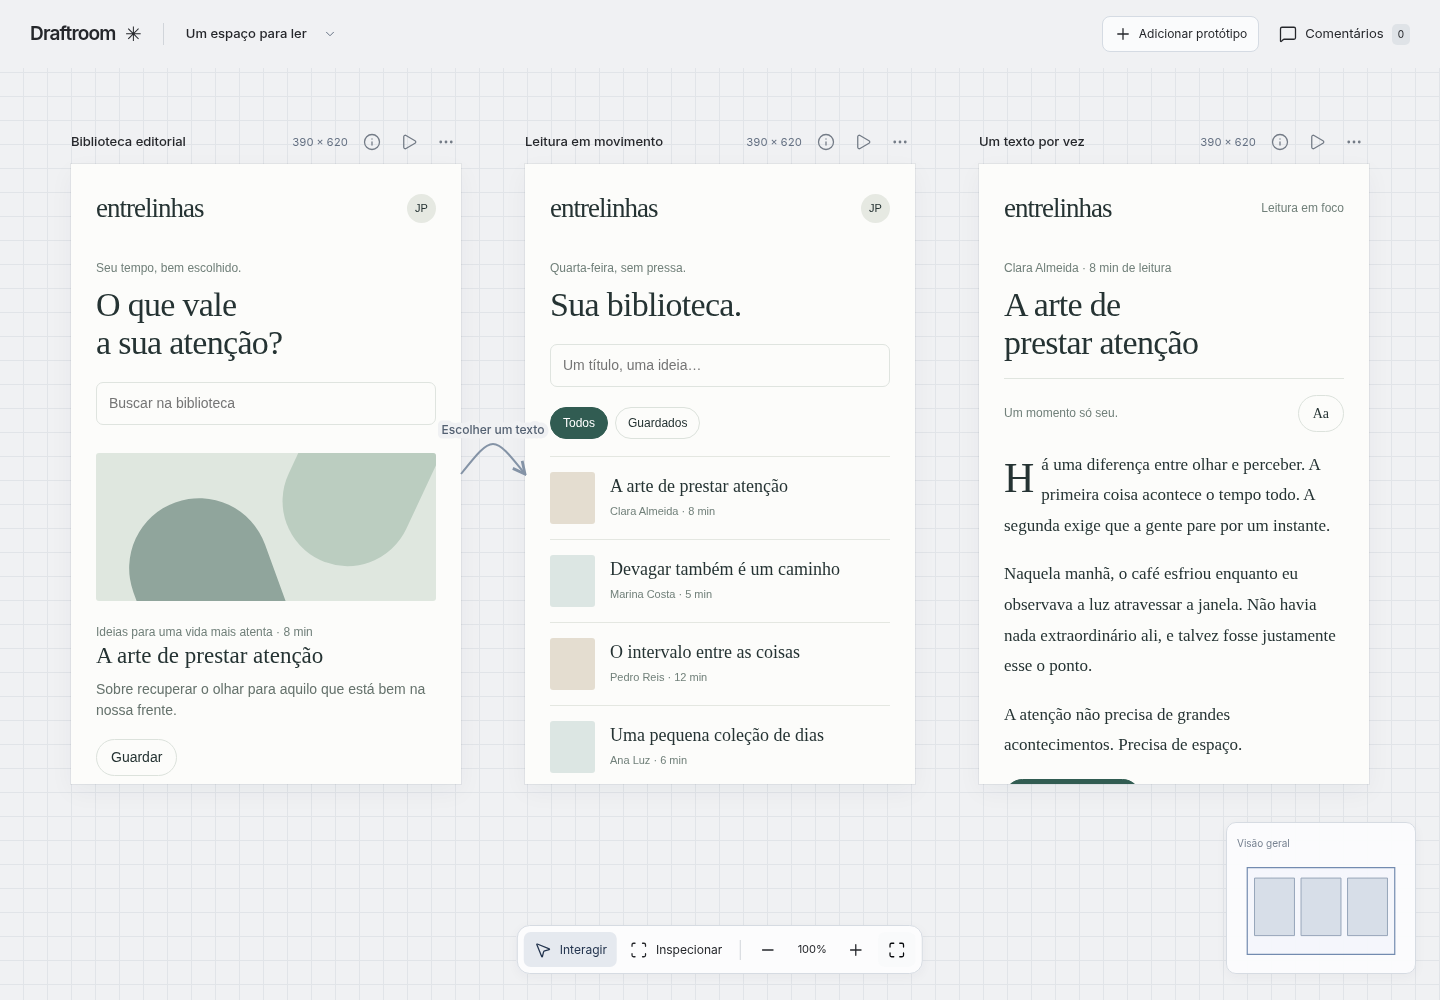
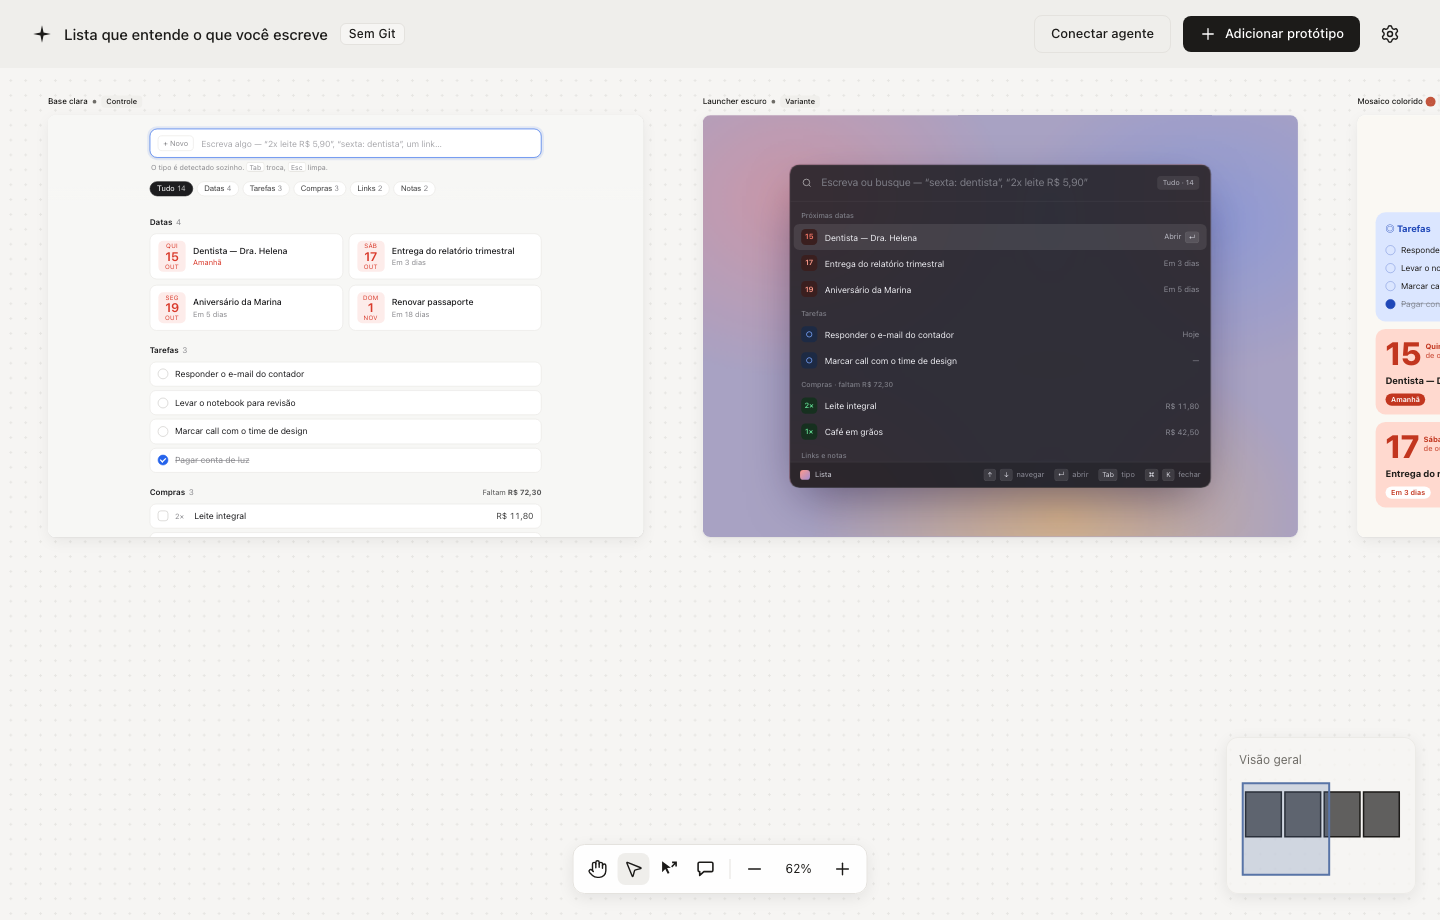
Fecha a 1.0 com as capturas da lista e o changelog da primeira versão.

diff --git a/CHANGELOG.md b/CHANGELOG.md
@@ -4,13 +4,15 @@ All notable changes to this project will be documented in this file.
 
 Format based on [Keep a Changelog](https://keepachangelog.com/).
 
-## [Unreleased]
+## [1.0.0] - 2026-10-27
+
+First published version. The canvas, the lista example, Inspect, pin comments, the agent contract and Git history are one release.
 
 ### Changed
 
-- The canvas toolbar is icons only: pan, select, inspect, comment, and zoom. The top bar keeps the mark, the project name, **Adicionar protótipo**, and **Conectar agente** only while no agent is connected. Comments open in a popover on the pin; the side panel only lists them. The role chip is a plain label. Compare, the info dialog, the research card, and the Status control are gone. Zoom changes the canvas, not the bars around it. Documents from `research.md` on the canvas are a follow-up.
-- Canvas frames use the frame shadow and a 12px radius, with 96px between frames. The frame name stays visible; size and frame actions appear when the frame is selected or focused. Flow filters live in the side panel. The top bar keeps the project name and **Adicionar protótipo**.
-- Frame headers show the name, a 6px state dot, and the role chip. Status words are the dot tooltip; the terracotta dot opens the agent question in the side panel. Small labels above titles and helper lines are removed. Compare shows the hypothesis and the criterion once.
+- The canvas toolbar is icons only: pan, select, inspect, comment, and zoom. The top bar keeps the mark, the project name, **Adicionar protótipo**, and **Conectar agente** only while no agent is connected. Comments open in a popover on the pin; the side panel only lists them. The role chip is a plain label, **Controle** or **Variante**, with no separate compare view. Zoom changes the canvas, not the bars around it. Documents from `research.md` on the canvas are a follow-up.
+- Canvas frames use the frame shadow and a 12px radius, with 96px between frames. The frame name stays visible; size and frame actions appear when the frame is selected or focused. The included study is `examples/lista`.
+- Frame headers show the name, a 6px state dot, and the role chip. Status words are the dot tooltip; the terracotta dot opens the agent question in the side panel. Small labels above titles and helper lines are removed.
 - Every state dot is a keyboard-focusable button with an accessible name. **Precisa de você** is an 8px dot with a 2px ring; Enter or Space opens the question.
 - **Breaking:** flow connections are stored in `experiment.json` (`edges`) instead of `.draft/layout.json`, so they are shared through Git. Existing connections are migrated on open. `POST /api/edges` replaces the layout field.
 
@@ -34,7 +36,8 @@ Format based on [Keep a Changelog](https://keepachangelog.com/).
 - Navigable study: `data-draft-goto="<frameId>"` inside a prototype jumps to that frame while presenting (selects and centers it on the canvas); arrow keys follow `edges` with a back history; the presentation bar lists the next steps. Unknown targets show a notice.
 - `draft export` keeps comments (read-only) and edges; `--no-feedback` leaves comments out.
 - Manifest `schemaVersion: 2`: frame `state`, `role` (control/variant), `group`, `tests`, `signal`; study `decision` (hypothesis, criteria); flow `edges`. Invalid or duplicate edges and multiple controls per group show a diagnostic instead of breaking the viewer.
-- Frame badges for state and role, decision and frame metadata in the info panel, and **Comparar** (control vs. variant side by side with the criteria).
+- Frame state dot and role chip. The study `decision` stays in the manifest and in `draft context`. There is no side-by-side compare view.
+- `ask_user` and `submit_summary` on `draft mcp`. Questions and assumptions are answered from the frame's state dot. In a Git repository, Inspect saves and claim releases commit `draft(<frameId>): …`, and the frame menu can restore an earlier commit of `frames/<id>/`.
 - `draft create --flow` scaffolds empty, loading, success and error states with edges.
 - `draft context` includes `schemaVersion`, `decision`, `edges` and frame metadata.
 - `draft context <folder>`: manifest, READMEs, frame files, open comments, active claims and emission rules in one JSON for agents.

diff --git a/README.md b/README.md
@@ -38,7 +38,7 @@ Opens the included lista study (`examples/lista`). Copy that folder when you sta
 - **History** — in a Git repository, the frame menu lists commits that touch `frames/<id>/`, shows the diff, and can restore that version as a new commit `draft(<id>): restaurar <sha>`. Without Git, the top bar shows **Sem Git** and history says it is unavailable; the canvas keeps working.
 - **Código** — switches that frame to a read-only view of its HTML. **Prévia** returns to the live iframe.
 - **Conectar agente** — copies a stdio command already pointed at this workspace folder. The button sits in the top bar only while no agent is connected; after that, the same dialog lives under **Configurações**. Read-only export bundles omit that absolute path.
-- **Comment** — pin a point or drag a region next to the pixels.
+- **Comment** — drag a region on the prototype. The note stays on a pin and opens in a popover; the side panel lists the thread.
 - **Present the flow** — in presentation mode, arrow keys follow `edges` (← goes back), the bar lists the next steps, and any element with `data-draft-goto="<frameId>"` inside a prototype jumps to that frame. On the canvas the same link selects and centers the target.
 - **Share** — same folder via Git or zip; `draft export` builds a read-only bundle with the flow and the comments (add `--no-feedback` to leave comments out).
 
